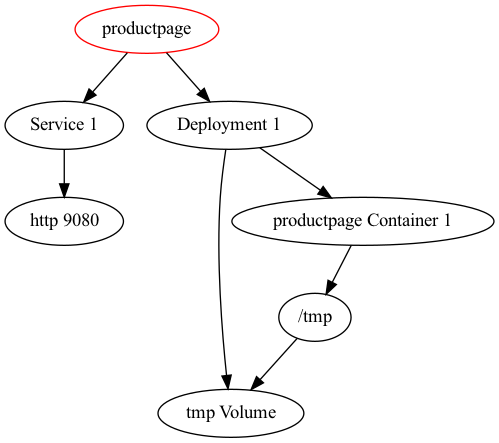
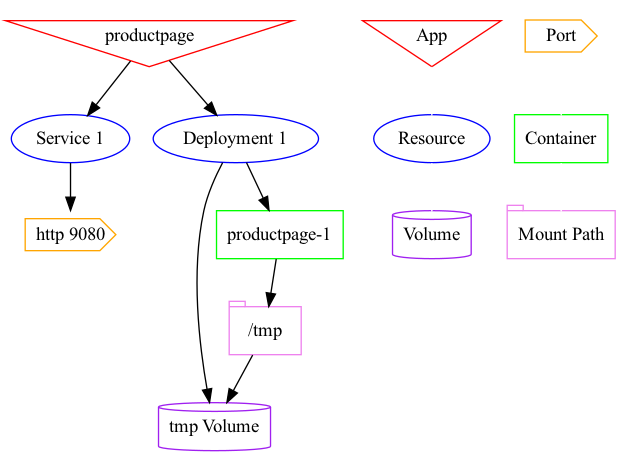
much cooler

diff --git a/vubernetes.py b/vubernetes.py
@@ -11,7 +11,6 @@
 # Imports --------------------------------------------------------
 import yaml
 import networkx as nx
-import matplotlib.pyplot as plt
 
 # Global Variables -----------------------------------------------
 
@@ -55,43 +54,67 @@ class Vubernetes():
                             tmpFile.write(f"{parsedLine}\n")
 
     def createAppGraph(self):
-        # Create graph
+        # Create a graph for each app
         for app in self.apps:
-            G = nx.DiGraph()
+            G = nx.DiGraph()    # Graph should be directional
             # Create a master node of the app
-            appNode = G.add_nodes_from([(app.name, {'color': 'red'})])
+            appNode = G.add_nodes_from([(app.name, {'color': 'red', 'shape': 'invtriangle'})])
             resourceCount = {
                 "Deployment": 0,
                 "Service": 0
             }
             for resource in app.resources:
+                # Keep a unique count so that nodes don't double up
                 resourceCount[resource.kind] += 1
                 # Add edge between appNode and resourceNode
                 resourceNodeName = f"{resource.kind} {resourceCount[resource.kind]}"
-                e = G.add_edge(app.name, resourceNodeName)
+                G.add_nodes_from([(resourceNodeName, {'color':'blue'})])
+                G.add_edge(app.name, resourceNodeName)
                 if resource.kind == "Service":
-                    e = G.add_edge(resourceNodeName, f"{resource.spec['ports'][0]['name']} {resource.spec['ports'][0]['port']}")
+                    portNodeName = f"{resource.spec['ports'][0]['name']} {resource.spec['ports'][0]['port']}"
+                    G.add_nodes_from([(portNodeName, {'color': 'orange', 'shape':'cds'})])
+                    G.add_edge(resourceNodeName, portNodeName)
                 if resource.kind == "Deployment":
                     numReplicas = int(resource.spec['replicas'])
                     for i in range(0, numReplicas):
                         try: 
                             volumes = resource.spec['template']['spec']['volumes']
                             for v in range(0, len(volumes)):
-                                e = G.add_edge(resourceNodeName, f"{volumes[v]['name']} Volume")
+                                volumeNodeName = f"{volumes[v]['name']} Volume"
+                                G.add_nodes_from([(volumeNodeName, {'color': 'purple', 'shape':'cylinder'})])
+                                G.add_edge(resourceNodeName, volumeNodeName)
                         except KeyError:
                             pass
                         containers = resource.spec['template']['spec']['containers']
                         for c in range(0, len(containers)):
-                            containerNodeName = f"{containers[c]['name']} Container {resourceCount[resource.kind]}"
-                            e = G.add_edge(resourceNodeName, containerNodeName)
+                            containerNodeName = f"{containers[c]['name']}-{resourceCount[resource.kind]}"
+                            G.add_nodes_from([(containerNodeName, {'color': 'green', 'shape': 'box'})])
+                            G.add_edge(resourceNodeName, containerNodeName)
                             try:
                                 volumeMounts = containers[c]["volumeMounts"]
                                 for vm in range(0, len(volumeMounts)):
-                                    e = G.add_edge(containerNodeName, volumeMounts[vm]["mountPath"])
-                                    e = G.add_edge(volumeMounts[vm]["mountPath"], f"{volumeMounts[vm]['name']} Volume" )
+                                    mountPathNodeName = volumeMounts[vm]["mountPath"]
+                                    G.add_nodes_from([(mountPathNodeName, {'color': 'violet', 'shape':'tab'})])
+                                    G.add_edge(containerNodeName, mountPathNodeName)
+                                    G.add_edge(volumeMounts[vm]["mountPath"], f"{volumeMounts[vm]['name']} Volume" )
                             except KeyError:
                                 pass
-
+            # Create legend
+            G.add_nodes_from([
+                ("App", {'color':'red', 'shape': 'invtriangle'}), 
+                ("Resource", {'color':'blue'}), 
+                ("Port", {'color': 'orange', 'shape':'cds'}),
+                ("Volume", {'color': 'purple', 'shape':'cylinder'}),
+                ("Container", {'color': 'green', 'shape':'box'}),
+                ("Mount Path", {'color': 'violet', 'shape':'tab'})
+            ])
+            G.add_edges_from([
+                ("App", "Resource", {'color': "white"}),
+                ("Resource", "Volume", {'color': "white"}),
+                # ("Volume", "Port", {'color': "white"}),
+                ("Port", "Container", {'color': "white"}),
+                ("Container", "Mount Path", {'color': "white"}),
+            ])
             # same layout using matplotlib with no labels
             p=nx.drawing.nx_pydot.to_pydot(G)
             p.write_png(f'./output/bookinfo_graphs/{app}.png')
